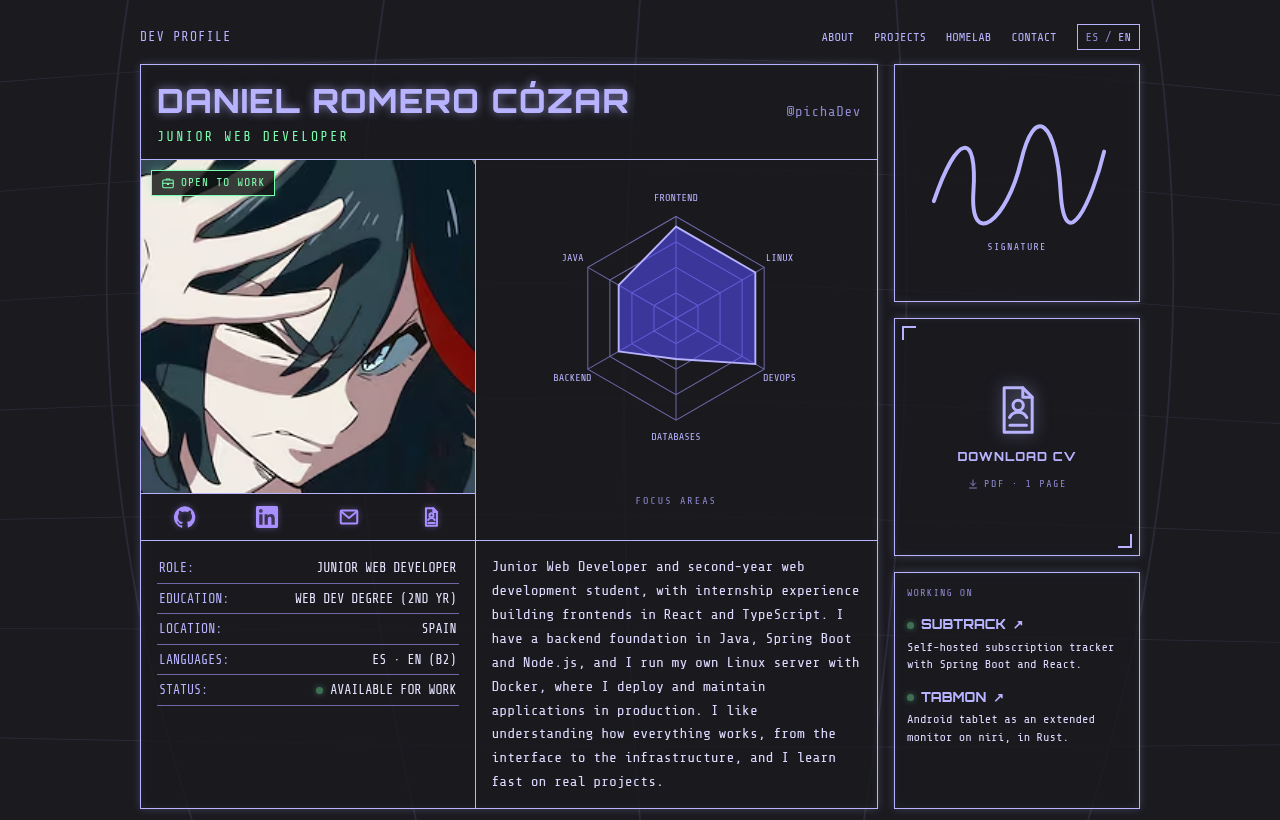
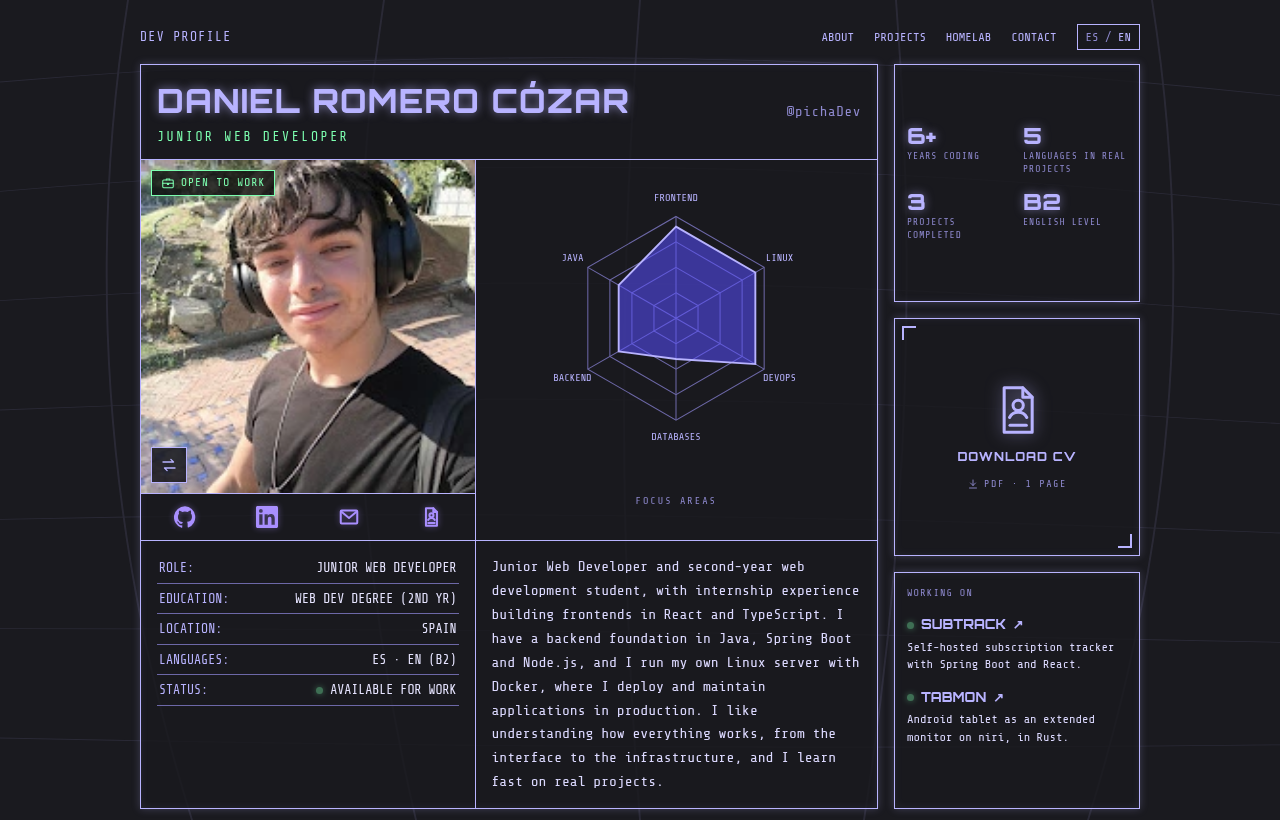
feat: real profile photo with anime toggle; share preview uses real photo

Changed region(s): [[0.0938, 0.1829, 0.375, 0.6098], [0.6875, 0.1524, 0.875, 0.3049]]

diff --git a/tools/og.html b/tools/og.html
@@ -12,8 +12,9 @@
   .mesh path { fill: none; stroke: #b8b3ff; stroke-width: 1; }
   .glow-bg { position: absolute; inset: 0; background: radial-gradient(circle at 85% 10%, rgba(90, 80, 255, .28), transparent 55%); }
   .card { position: absolute; inset: 48px; border: 2px solid #b8b3ff; box-shadow: 0 0 18px rgba(184, 179, 255, .3), inset 0 0 18px rgba(184, 179, 255, .08); display: grid; grid-template-columns: 300px 1fr; }
-  .photo { border-right: 2px solid #b8b3ff; background: url("../site/assets/img/photo.avif") center / cover; position: relative; }
-  .badge { position: absolute; top: 18px; left: 18px; padding: 6px 12px; font-size: 18px; letter-spacing: .1em; color: #7dffb0; background: rgba(16, 20, 18, .85); border: 2px solid #7dffb0; box-shadow: 0 0 14px rgba(125, 255, 176, .4); }
+  .photo { border-right: 2px solid #b8b3ff; background: radial-gradient(circle, #2b2850, #1a1a1f); display: flex; flex-direction: column; align-items: center; justify-content: center; gap: 22px; }
+  .pic { width: 220px; height: 220px; background: url("../site/assets/img/photo-real.webp") center / cover; border: 2px solid #b8b3ff; box-shadow: 0 0 18px rgba(184, 179, 255, .45); }
+  .badge { padding: 6px 12px; font-size: 18px; letter-spacing: .1em; color: #7dffb0; background: rgba(16, 20, 18, .85); border: 2px solid #7dffb0; box-shadow: 0 0 14px rgba(125, 255, 176, .4); }
   .body { padding: 44px 48px; display: flex; flex-direction: column; justify-content: space-between; }
   .top { font-size: 20px; letter-spacing: .2em; color: #8f8ad0; }
   h1 { font-family: "Orbitron"; font-weight: 800; font-size: 58px; line-height: 1.05; letter-spacing: .03em; text-shadow: 0 0 16px rgba(184, 179, 255, .6); }
@@ -28,7 +29,7 @@
   <svg class="mesh" viewBox="0 0 400 200" preserveAspectRatio="none"><path d="M0 30 Q200 5 400 35"/><path d="M0 80 Q200 55 400 85"/><path d="M0 130 Q200 115 400 135"/><path d="M0 180 Q200 175 400 185"/><path d="M60 0 Q40 100 70 200"/><path d="M160 0 Q150 100 165 200"/><path d="M260 0 Q270 100 255 200"/><path d="M350 0 Q370 100 340 200"/></svg>
   <div class="glow-bg"></div>
   <div class="card">
-    <div class="photo"><span class="badge">DISPONIBLE</span></div>
+    <div class="photo"><div class="pic"></div><span class="badge">DISPONIBLE</span></div>
     <div class="body">
       <div>
         <p class="top">DEV PROFILE · @pichaDev</p>

diff --git a/site/index.html b/site/index.html
@@ -30,6 +30,7 @@
     <symbol id="i-mail" viewBox="0 0 24 24"><rect x="3" y="5" width="18" height="14" rx="1"/><path d="M3.5 6l8.5 7 8.5-7"/></symbol>
     <symbol id="i-cv" viewBox="0 0 24 24"><path d="M6.5 2.5h8l4 4v15h-12z"/><path d="M14.5 2.5v4h4"/><circle cx="12.5" cy="10" r="2.2"/><path d="M8.8 15.2c.8-1.5 2.1-2.2 3.7-2.2s2.9.7 3.7 2.2"/><path d="M9 18.5h7"/></symbol>
     <symbol id="i-briefcase" viewBox="0 0 24 24"><rect x="3" y="7" width="18" height="13" rx="1.5"/><path d="M9 7V5h6v2M3 12.5h18M11 12.5v2h2v-2"/></symbol>
+    <symbol id="i-swap" viewBox="0 0 24 24"><path d="M4 8h14l-3.5-3.5M20 16H6l3.5 3.5"/></symbol>
     <symbol id="i-download" viewBox="0 0 24 24"><path d="M12 4v11M7 10l5 5 5-5M5 20h14"/></symbol>
   </svg>
   <svg class="mesh" viewBox="0 0 400 600" preserveAspectRatio="none" aria-hidden="true">
@@ -69,7 +70,13 @@
             <div class="dossier__photo">
               <div class="photo-wrap">
               <span class="badge-available"><svg class="ico ico--stroke" width="16" height="16" aria-hidden="true"><use href="#i-briefcase"/></svg><span data-i18n="badge.available">DISPONIBLE</span></span>
-              <div class="photo" role="img" data-i18n-aria="photo.alt" aria-label="Foto de pichaDev"><img src="assets/img/photo.avif" alt="" width="225" height="225"></div>
+              <div class="photo" data-photo="real" role="img" aria-label="Foto de Daniel Romero">
+                <img class="photo__img photo__img--real" src="assets/img/photo-real.webp" alt="" width="174" height="174">
+                <img class="photo__img photo__img--anime" src="assets/img/photo.avif" alt="" width="225" height="225" loading="lazy">
+              </div>
+              <button id="photo-toggle" class="photo-toggle" type="button" aria-pressed="false" aria-label="Versión anime" title="Ver versión anime">
+                <svg class="ico ico--stroke" width="16" height="16" aria-hidden="true"><use href="#i-swap"/></svg>
+              </button>
               </div>
               <div class="links">
                 <a class="ico-link" title="GitHub" href="https://github.com/pichaDev" data-link="github" target="_blank" rel="noopener"><svg class="ico" width="16" height="16" aria-hidden="true"><use href="#i-github"/></svg><span class="sr-only">GITHUB</span></a>

diff --git a/tests/photo.test.js b/tests/photo.test.js
@@ -1,0 +1,49 @@
+import { test } from 'node:test';
+import assert from 'node:assert/strict';
+import { readFileSync, existsSync } from 'node:fs';
+import { PHOTOS, readPhoto, savePhoto, nextPhoto } from '../site/js/photo.js';
+
+const read = (p) => readFileSync(new URL(`../${p}`, import.meta.url), 'utf8');
+const html = read('site/index.html');
+
+test('real photo is the default and the two options alternate', () => {
+  assert.deepEqual(PHOTOS, ['real', 'anime']);
+  assert.equal(nextPhoto('real'), 'anime');
+  assert.equal(nextPhoto('anime'), 'real');
+  assert.equal(nextPhoto('garbage'), 'anime');
+});
+
+test('readPhoto falls back to real for missing, invalid or blocked storage', () => {
+  assert.equal(readPhoto(undefined), 'real');
+  assert.equal(readPhoto({ getItem: () => 'nope' }), 'real');
+  assert.equal(readPhoto({ getItem: () => { throw new Error('blocked'); } }), 'real');
+  assert.equal(readPhoto({ getItem: () => 'anime' }), 'anime');
+});
+
+test('savePhoto stores the choice and never throws', () => {
+  const mem = new Map();
+  savePhoto({ setItem: (k, v) => mem.set(k, v) }, 'anime');
+  assert.equal(mem.get('photo'), 'anime');
+  assert.doesNotThrow(() => savePhoto({ setItem() { throw new Error('quota'); } }, 'real'));
+  assert.doesNotThrow(() => savePhoto(undefined, 'real'));
+});
+
+test('photo box holds both images, real first and visible by default', () => {
+  assert.match(html, /<div class="photo" data-photo="real"/);
+  const real = html.indexOf('photo__img--real'), anime = html.indexOf('photo__img--anime');
+  assert.ok(real > 0 && anime > real);
+  assert.ok(existsSync(new URL('../site/assets/img/photo-real.webp', import.meta.url)));
+});
+
+test('toggle button sits on the photo with an icon and translated labels', () => {
+  assert.match(html, /<button id="photo-toggle" class="photo-toggle" type="button" aria-pressed="false"[^>]*>\s*<svg[^>]*><use href="#i-swap"/);
+  assert.match(html, /<symbol id="i-swap"/);
+  for (const lang of ['es', 'en']) {
+    const d = JSON.parse(read(`site/i18n/${lang}.json`));
+    assert.ok(d['photo.show.anime'] && d['photo.show.real'], lang);
+  }
+});
+
+test('share preview template uses the real photo', () => {
+  assert.match(read('tools/og.html'), /photo-real\.webp/);
+});

diff --git a/site/js/main.js b/site/js/main.js
@@ -1,3 +1,4 @@
+import { readPhoto, savePhoto, nextPhoto } from './photo.js';
 import { pickLang, readStoredLang, saveLang, applyTranslations } from './i18n.js';
 import { yearsSince, projectCardHTML, timelineRowHTML, pickCv, serviceCardHTML, stepHTML, storageRowHTML, stackGroupHTML, escapeHTML } from './render.js';
 import { radarSVG, radarListHTML } from './radar.js';
@@ -7,7 +8,7 @@ const storage = (() => {
   try { return window.localStorage; } catch { return undefined; }
 })();
 
-const state = { lang: 'es', dicts: {}, data: null, seq: 0 };
+const state = { lang: 'es', dicts: {}, data: null, seq: 0, photo: 'real' };
 
 async function getJSON(path) {
   const res = await fetch(path);
@@ -52,6 +53,19 @@ function renderData(lang, dict) {
   }
 }
 
+function applyPhoto(photo) {
+  const box = $('.photo');
+  const btn = $('#photo-toggle');
+  const anime = photo === 'anime';
+  box.dataset.photo = photo;
+  btn.setAttribute('aria-pressed', String(anime));
+  const dict = state.dicts[state.lang] ?? {};
+  btn.title = dict[anime ? 'photo.show.real' : 'photo.show.anime'] ?? btn.title;
+  btn.setAttribute('aria-label', dict['photo.toggle'] ?? btn.getAttribute('aria-label'));
+  box.setAttribute('aria-label', dict[anime ? 'photo.alt.anime' : 'photo.alt'] ?? box.getAttribute('aria-label'));
+  state.photo = photo;
+}
+
 async function setLang(lang) {
   const seq = ++state.seq;
   let dict;
@@ -69,8 +83,9 @@ async function setLang(lang) {
   const desc = document.querySelector('meta[name="description"]');
   if (desc && dict['meta.desc']) desc.content = dict['meta.desc'];
   $('#lang-toggle').dataset.lang = lang;
-  if (state.data) renderData(lang, dict);
   state.lang = lang;
+  applyPhoto(state.photo);
+  if (state.data) renderData(lang, dict);
 }
 
 function fillYears() {
@@ -82,6 +97,12 @@ function fillYears() {
 
 async function init() {
   fillYears();
+  applyPhoto(readPhoto(storage));
+  $('#photo-toggle').addEventListener('click', () => {
+    const next = nextPhoto(state.photo);
+    savePhoto(storage, next);
+    applyPhoto(next);
+  });
   $('#lang-toggle').addEventListener('click', () => {
     const next = state.lang === 'es' ? 'en' : 'es';
     saveLang(storage, next);

diff --git a/site/css/style.css b/site/css/style.css
@@ -72,7 +72,14 @@ a:focus-visible, button:focus-visible { outline: 2px solid var(--led); outline-o
 .dossier__row > :first-child { border-right: 1.5px solid var(--c); }
 .dossier__photo { display: flex; flex-direction: column; }
 .photo { flex: 1; min-height: 200px; display: grid; place-items: center; background: radial-gradient(circle, #2b2850, var(--bg)); font-family: var(--display); font-size: 42px; color: var(--dim-text); overflow: hidden; }
-.photo img { width: 100%; height: 100%; object-fit: cover; filter: grayscale(.3) contrast(1.05); }
+.photo { position: relative; aspect-ratio: 1 / 1; }
+.photo img { position: absolute; inset: 0; width: 100%; height: 100%; object-fit: cover; transition: opacity .35s ease; }
+.photo__img--anime { filter: grayscale(.3) contrast(1.05); }
+.photo[data-photo="real"] .photo__img--anime, .photo[data-photo="anime"] .photo__img--real { opacity: 0; }
+.photo-toggle { position: absolute; left: 10px; bottom: 10px; z-index: 2; width: 36px; height: 36px; display: grid; place-items: center; padding: 0; color: var(--c); background: rgba(16, 16, 22, .82); border: 1.5px solid var(--c); box-shadow: 0 0 10px rgba(184, 179, 255, .3); cursor: pointer; transition: background .15s, color .15s; }
+.photo-toggle:hover { background: rgba(90, 80, 255, .35); color: #fff; }
+.photo-toggle[aria-pressed="true"] { border-color: var(--purple); }
+.photo-toggle .ico { width: 18px; height: 18px; }
 .links { display: flex; flex-wrap: wrap; justify-content: space-around; gap: 6px 10px; padding: 8px; border-top: 1.5px solid var(--c); font-size: 12px; }
 .links a { text-decoration: none; }
 .links a:hover { text-shadow: 0 0 8px var(--c); }

diff --git a/site/js/photo.js b/site/js/photo.js
@@ -1,0 +1,24 @@
+// Foto de perfil: real por defecto, con la versión anime como alternativa.
+export const PHOTOS = ['real', 'anime'];
+const KEY = 'photo';
+
+export function nextPhoto(current) {
+  return current === 'anime' ? 'real' : 'anime';
+}
+
+export function readPhoto(storage) {
+  try {
+    const value = storage?.getItem(KEY);
+    return PHOTOS.includes(value) ? value : 'real';
+  } catch {
+    return 'real';
+  }
+}
+
+export function savePhoto(storage, value) {
+  try {
+    storage?.setItem(KEY, value);
+  } catch {
+    // Sin almacenamiento: la elección dura solo esta visita.
+  }
+}
